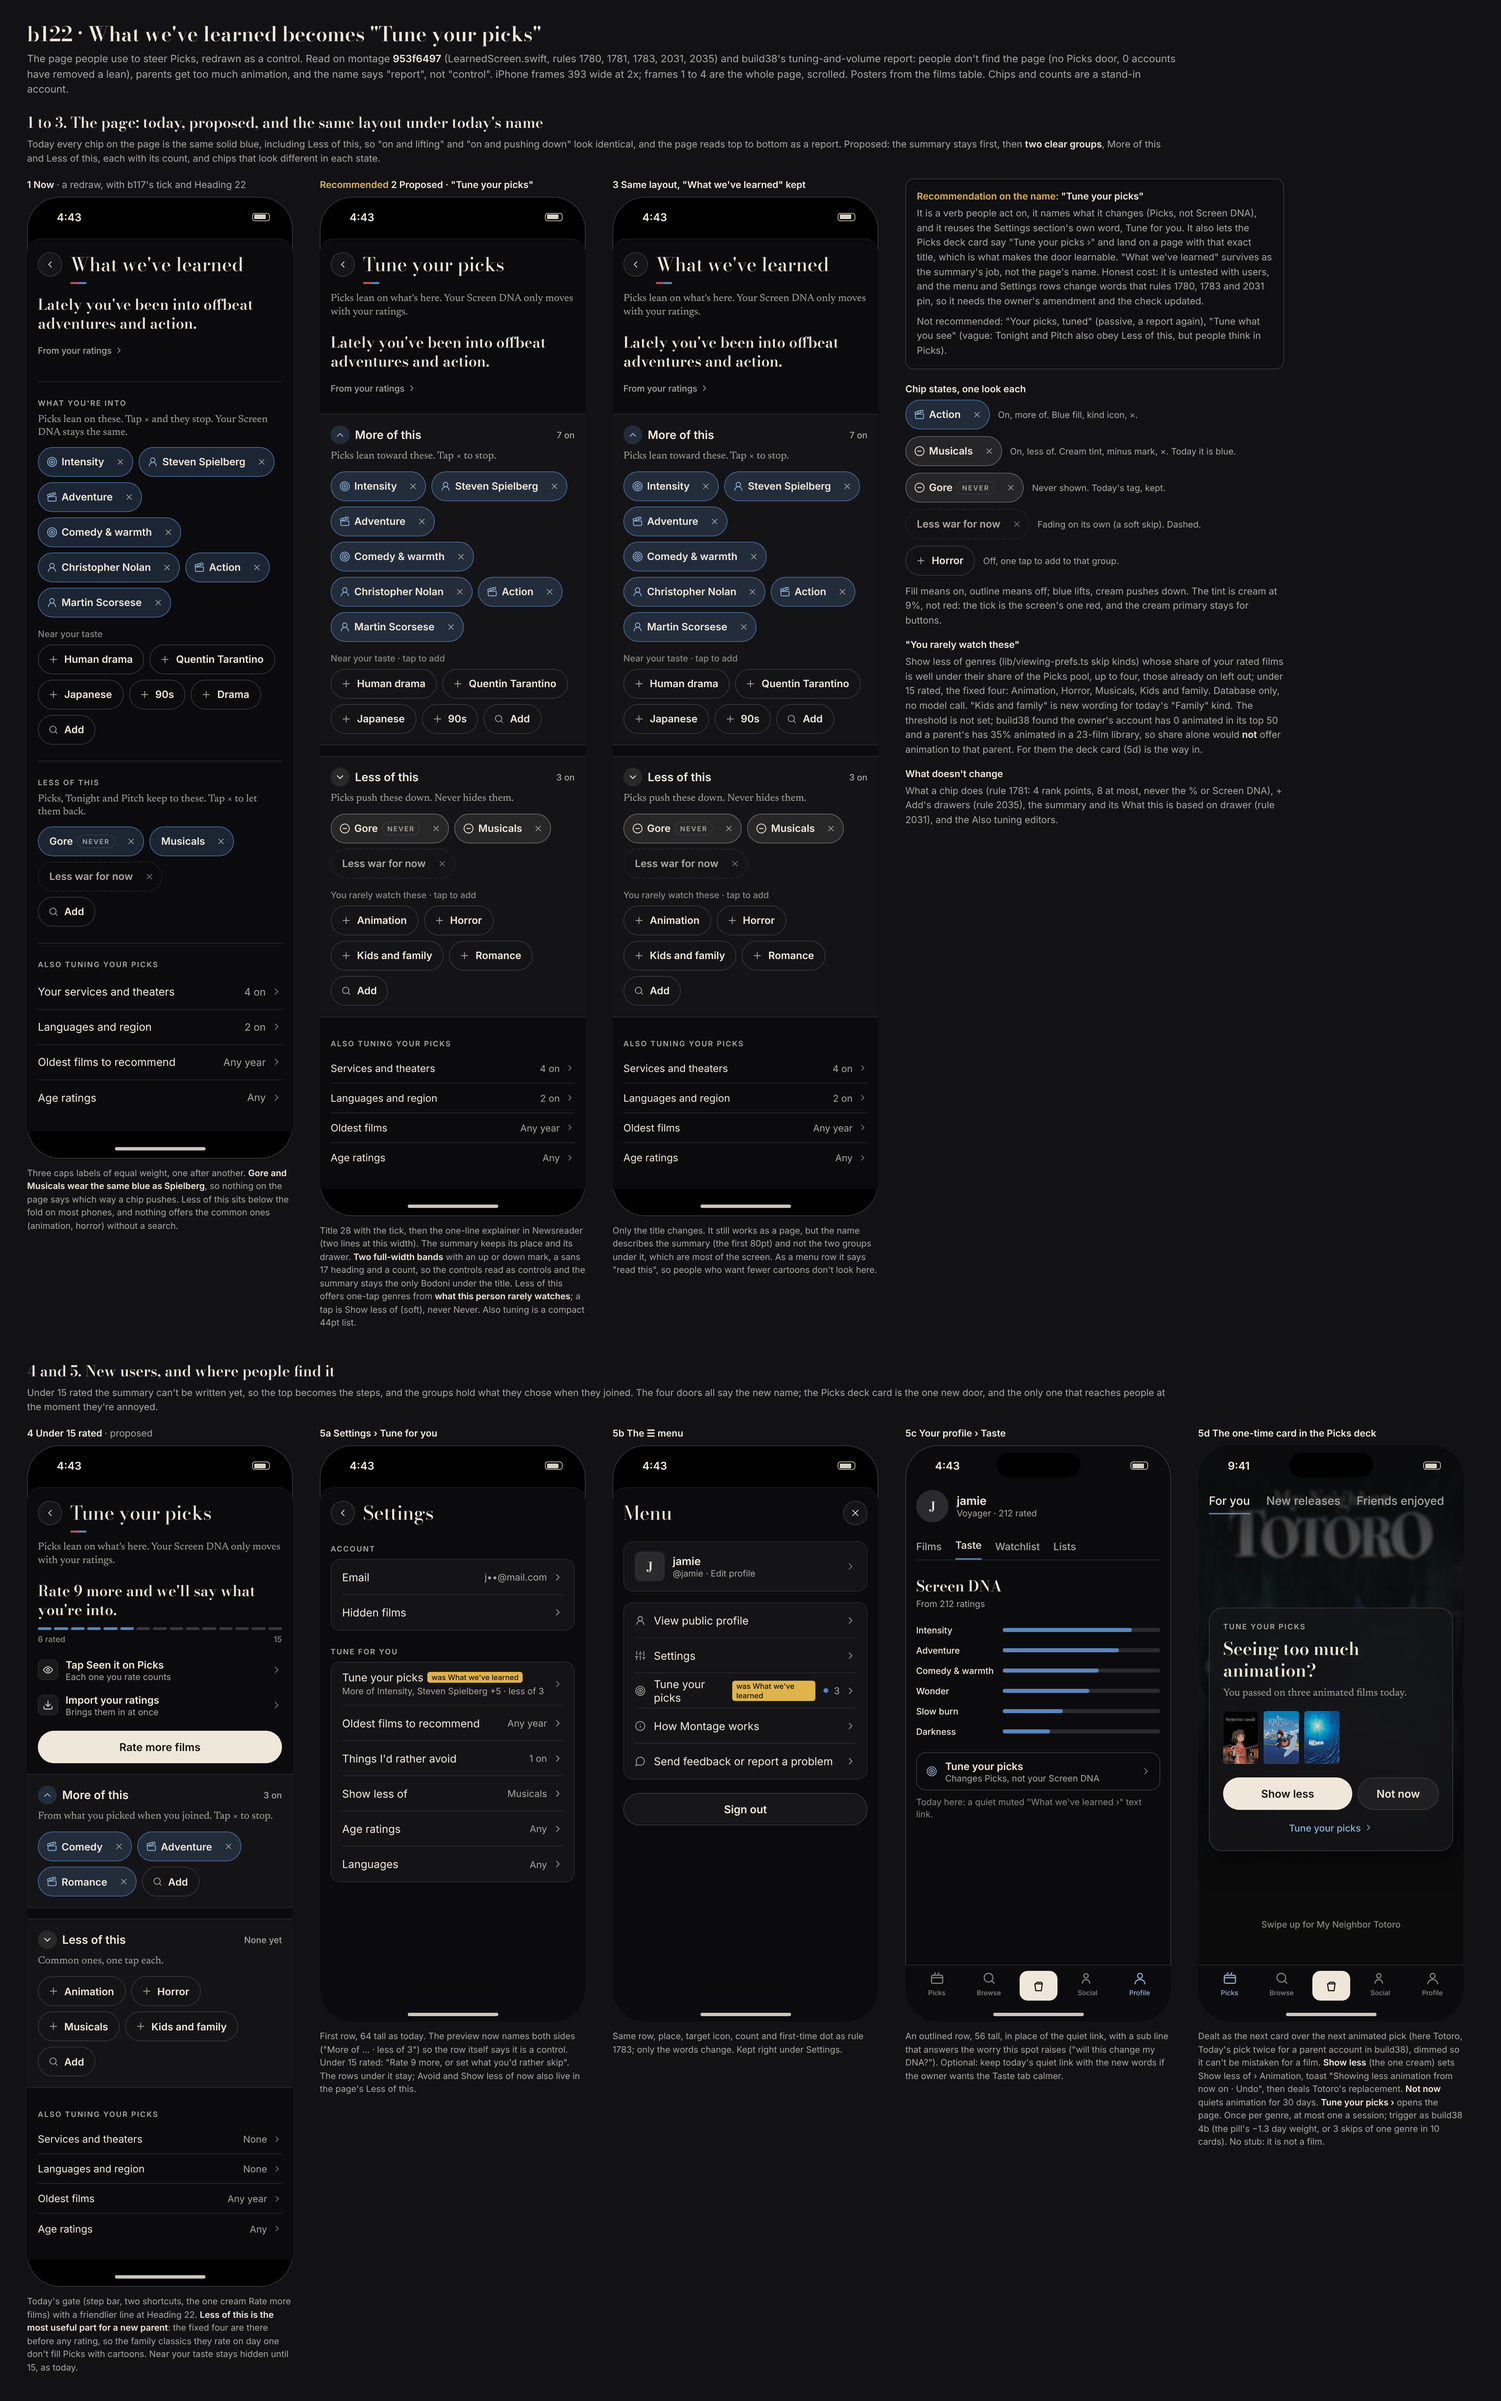
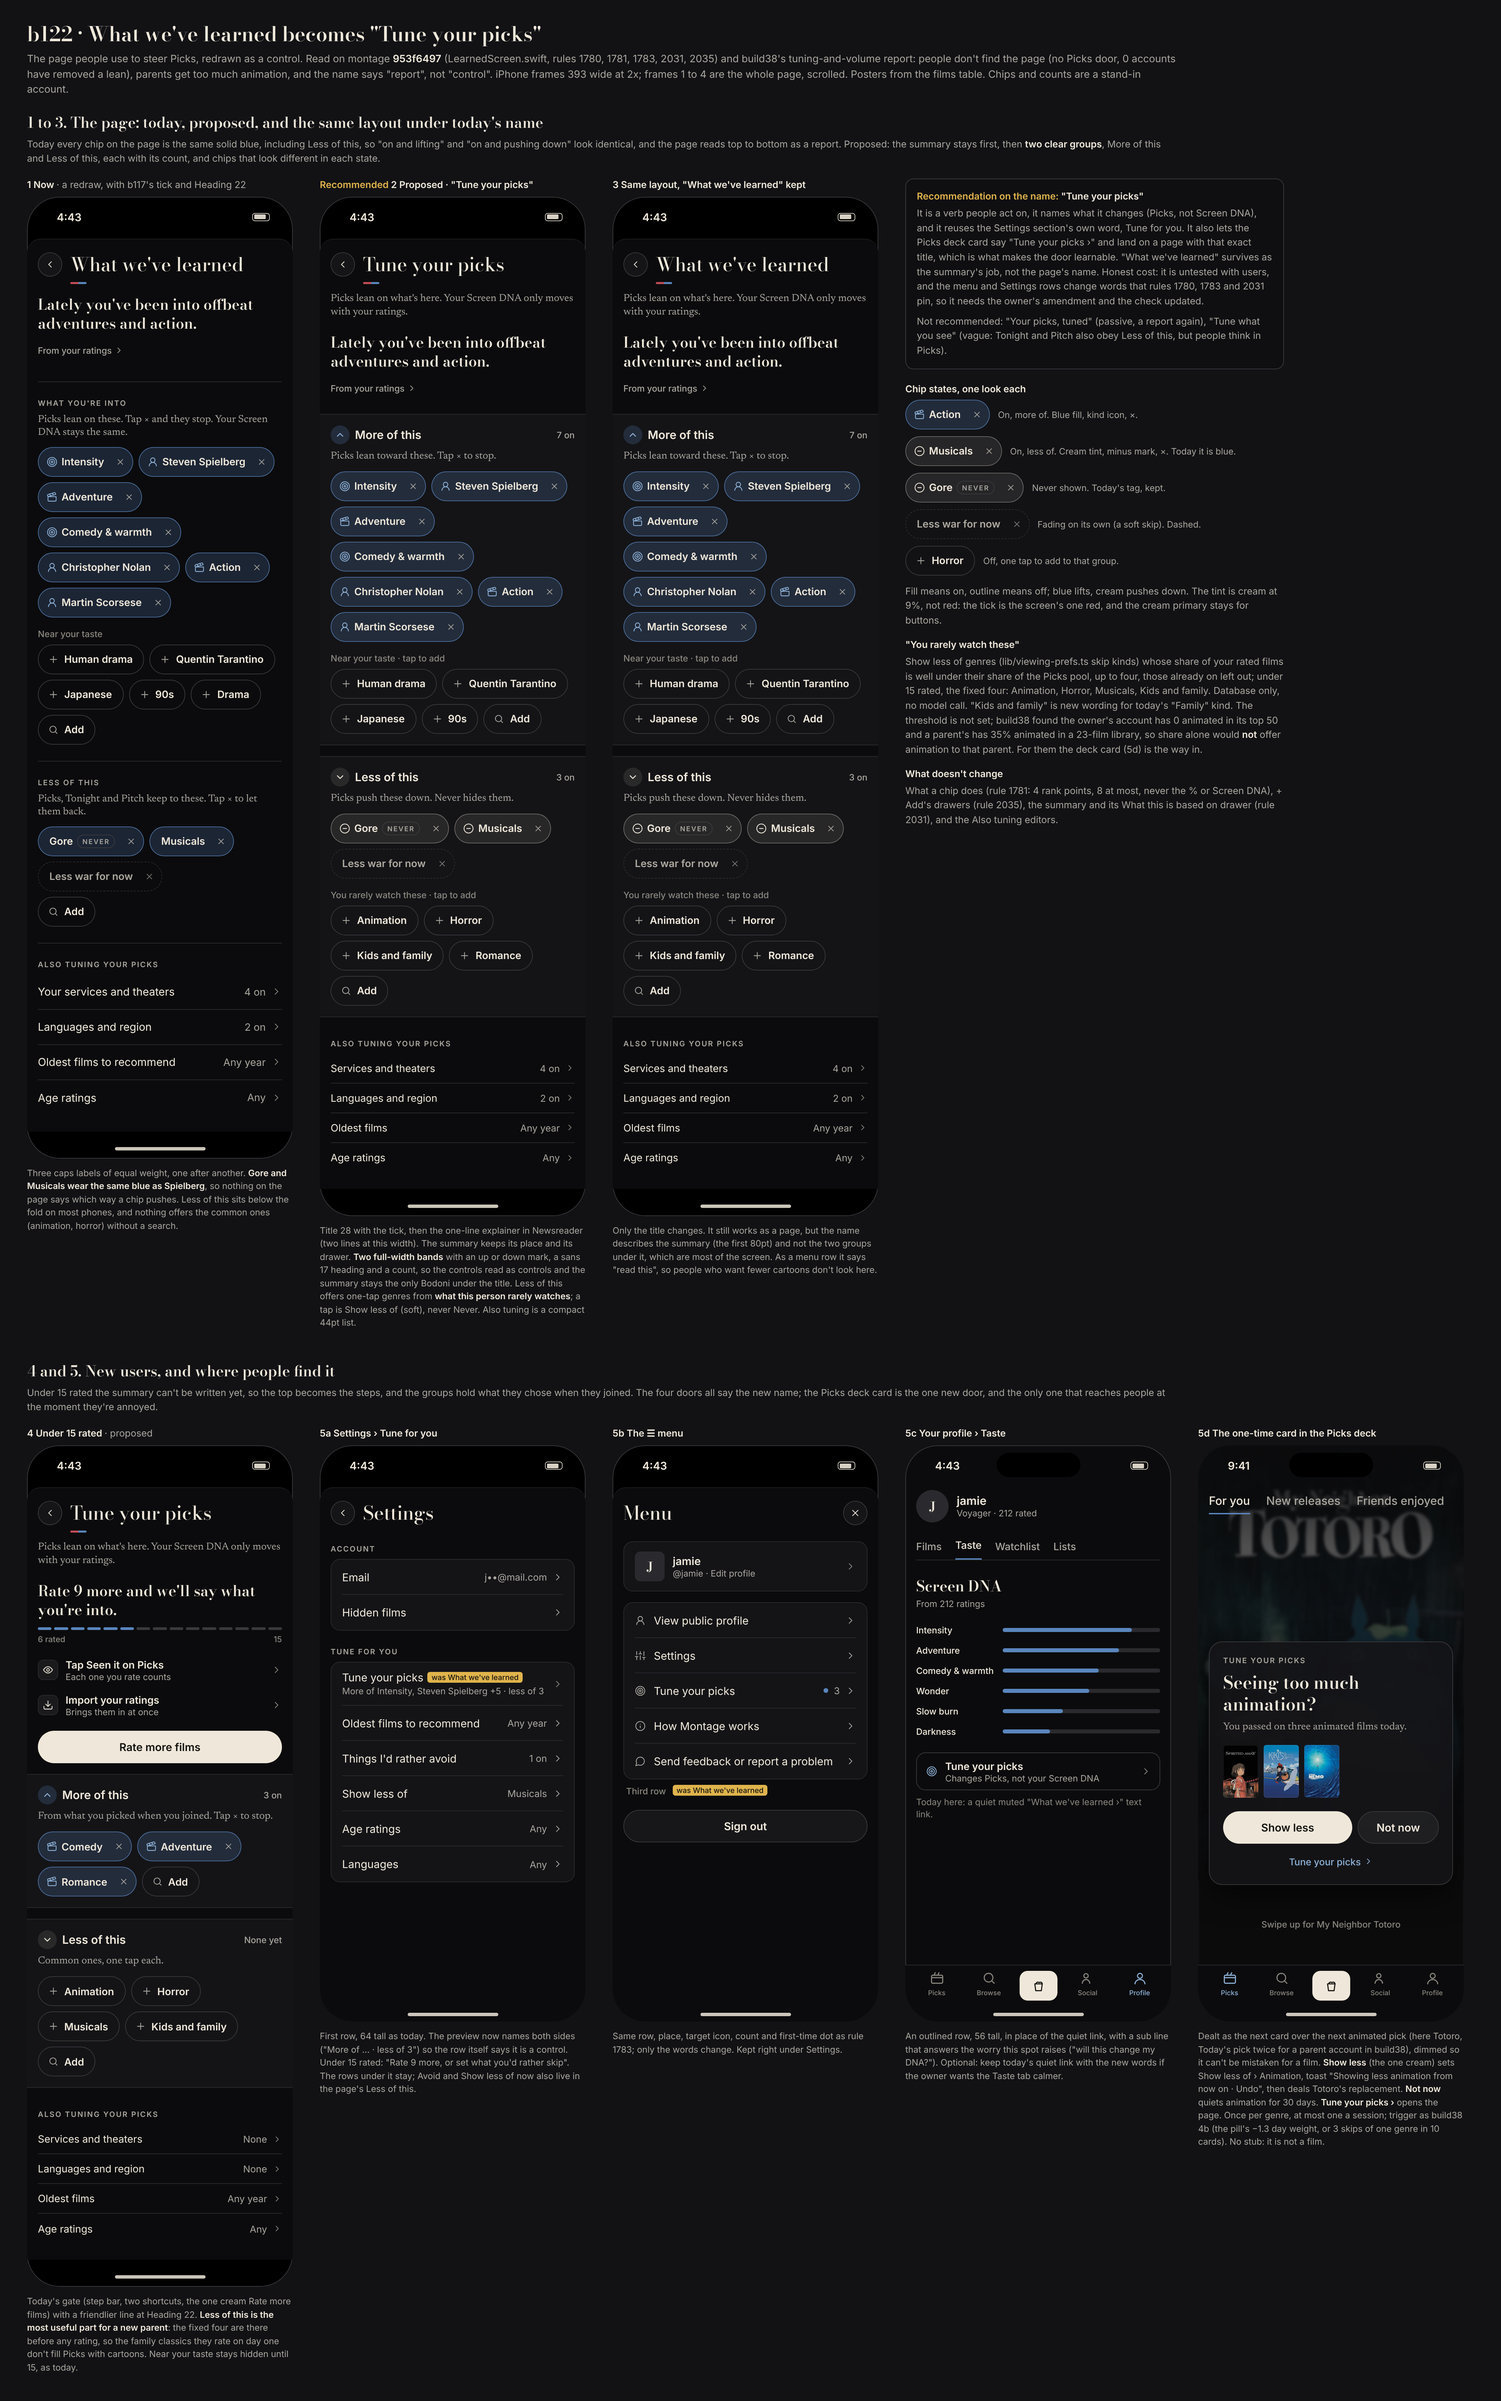
Mock work in progress
Claude-Session: https://claude.ai/code/session_013WRDCFXH8nihP92apJAVW7

Changed region(s): [[0.8081, 0.6848, 0.9014, 0.7782], [0.4662, 0.6848, 0.5595, 0.7782]]

diff --git a/mockups/journeys/b122-tune-page.html b/mockups/journeys/b122-tune-page.html
@@ -123,7 +123,7 @@ svg.i{width:16px;height:16px;stroke:currentColor;stroke-width:1.75;fill:none;str
 .topfade{position:absolute;left:0;right:0;top:0;height:150px;background:linear-gradient(to bottom,rgba(11,11,13,.9),rgba(11,11,13,0))}
 .ptabs{position:absolute;top:60px;left:16px;display:flex;gap:24px;font:500 17px/44px var(--ui);color:var(--muted);z-index:3}
 .ptabs .on{color:var(--ink);position:relative}.ptabs .on:after{content:"";position:absolute;left:0;right:0;bottom:2px;height:2px;background:var(--select)}
-.tcard{position:absolute;left:16px;right:16px;top:240px;z-index:4;background:rgba(20,20,23,.94);border:1px solid var(--line2);border-radius:20px;padding:20px 20px 12px;box-shadow:0 16px 40px rgba(0,0,0,.55)}
+.tcard{position:absolute;left:16px;right:16px;top:290px;z-index:4;background:rgba(20,20,23,.94);border:1px solid var(--line2);border-radius:20px;padding:20px 20px 12px;box-shadow:0 16px 40px rgba(0,0,0,.55)}
 .tcard .k{font:600 11px var(--ui);letter-spacing:1.5px;color:var(--muted)}
 .tcard h3{font:600 26px/32px var(--bodoni);color:var(--ink);margin-top:10px}
 .tcard .why{font:400 15px/20px var(--read);color:var(--muted);margin-top:8px}
@@ -419,10 +419,11 @@ svg.i{width:16px;height:16px;stroke:currentColor;stroke-width:1.75;fill:none;str
      <div class="card" style="margin-top:16px">
       <div class="mr"><svg class="i"><use href="#user"/></svg>View public profile<span class="end"><svg class="i"><use href="#chev-r"/></svg></span></div>
       <div class="mr"><svg class="i"><use href="#sliders"/></svg>Settings<span class="end"><svg class="i"><use href="#chev-r"/></svg></span></div>
-      <div class="mr"><svg class="i"><use href="#target"/></svg>Tune your picks<span class="was" style="margin-left:0">was What we've learned</span><span class="end"><span class="dot"></span>3<svg class="i"><use href="#chev-r"/></svg></span></div>
+      <div class="mr"><svg class="i"><use href="#target"/></svg>Tune your picks<span class="end"><span class="dot"></span>3<svg class="i"><use href="#chev-r"/></svg></span></div>
       <div class="mr"><svg class="i"><use href="#info"/></svg>How Montage works<span class="end"><svg class="i"><use href="#chev-r"/></svg></span></div>
       <div class="mr"><svg class="i"><use href="#msg"/></svg>Send feedback or report a problem<span class="end"><svg class="i"><use href="#chev-r"/></svg></span></div>
      </div>
+     <div style="font:500 13px var(--ui);color:var(--faint);margin-top:8px;padding-left:4px">Third row <span class="was">was What we've learned</span></div>
      <div class="btn-line" style="margin-top:20px">Sign out</div>
     </div>
     <div class="homeb"></div>

diff --git a/mockups/journeys/b121-imdb-import.html b/mockups/journeys/b121-imdb-import.html
@@ -224,7 +224,7 @@ svg.i{width:16px;height:16px;stroke:currentColor;stroke-width:1.75;fill:none;str
      <div class="arow"><span class="m">Import your Letterboxd export</span><svg class="i"><use href="#chev-r"/></svg></div>
      <div class="anote">Bring in your ratings and diary. After that, your Letterboxd diary comes in daily, one way.</div>
     </div>
-    <div class="note" style="left:10px;top:398px;width:373px;height:126px"></div>
+    <div class="note" style="left:10px;top:390px;width:373px;height:134px"></div>
     <div class="notel" style="left:16px;top:532px">The import's only home in Settings</div>
     <div class="homeb"></div>
    </div>
